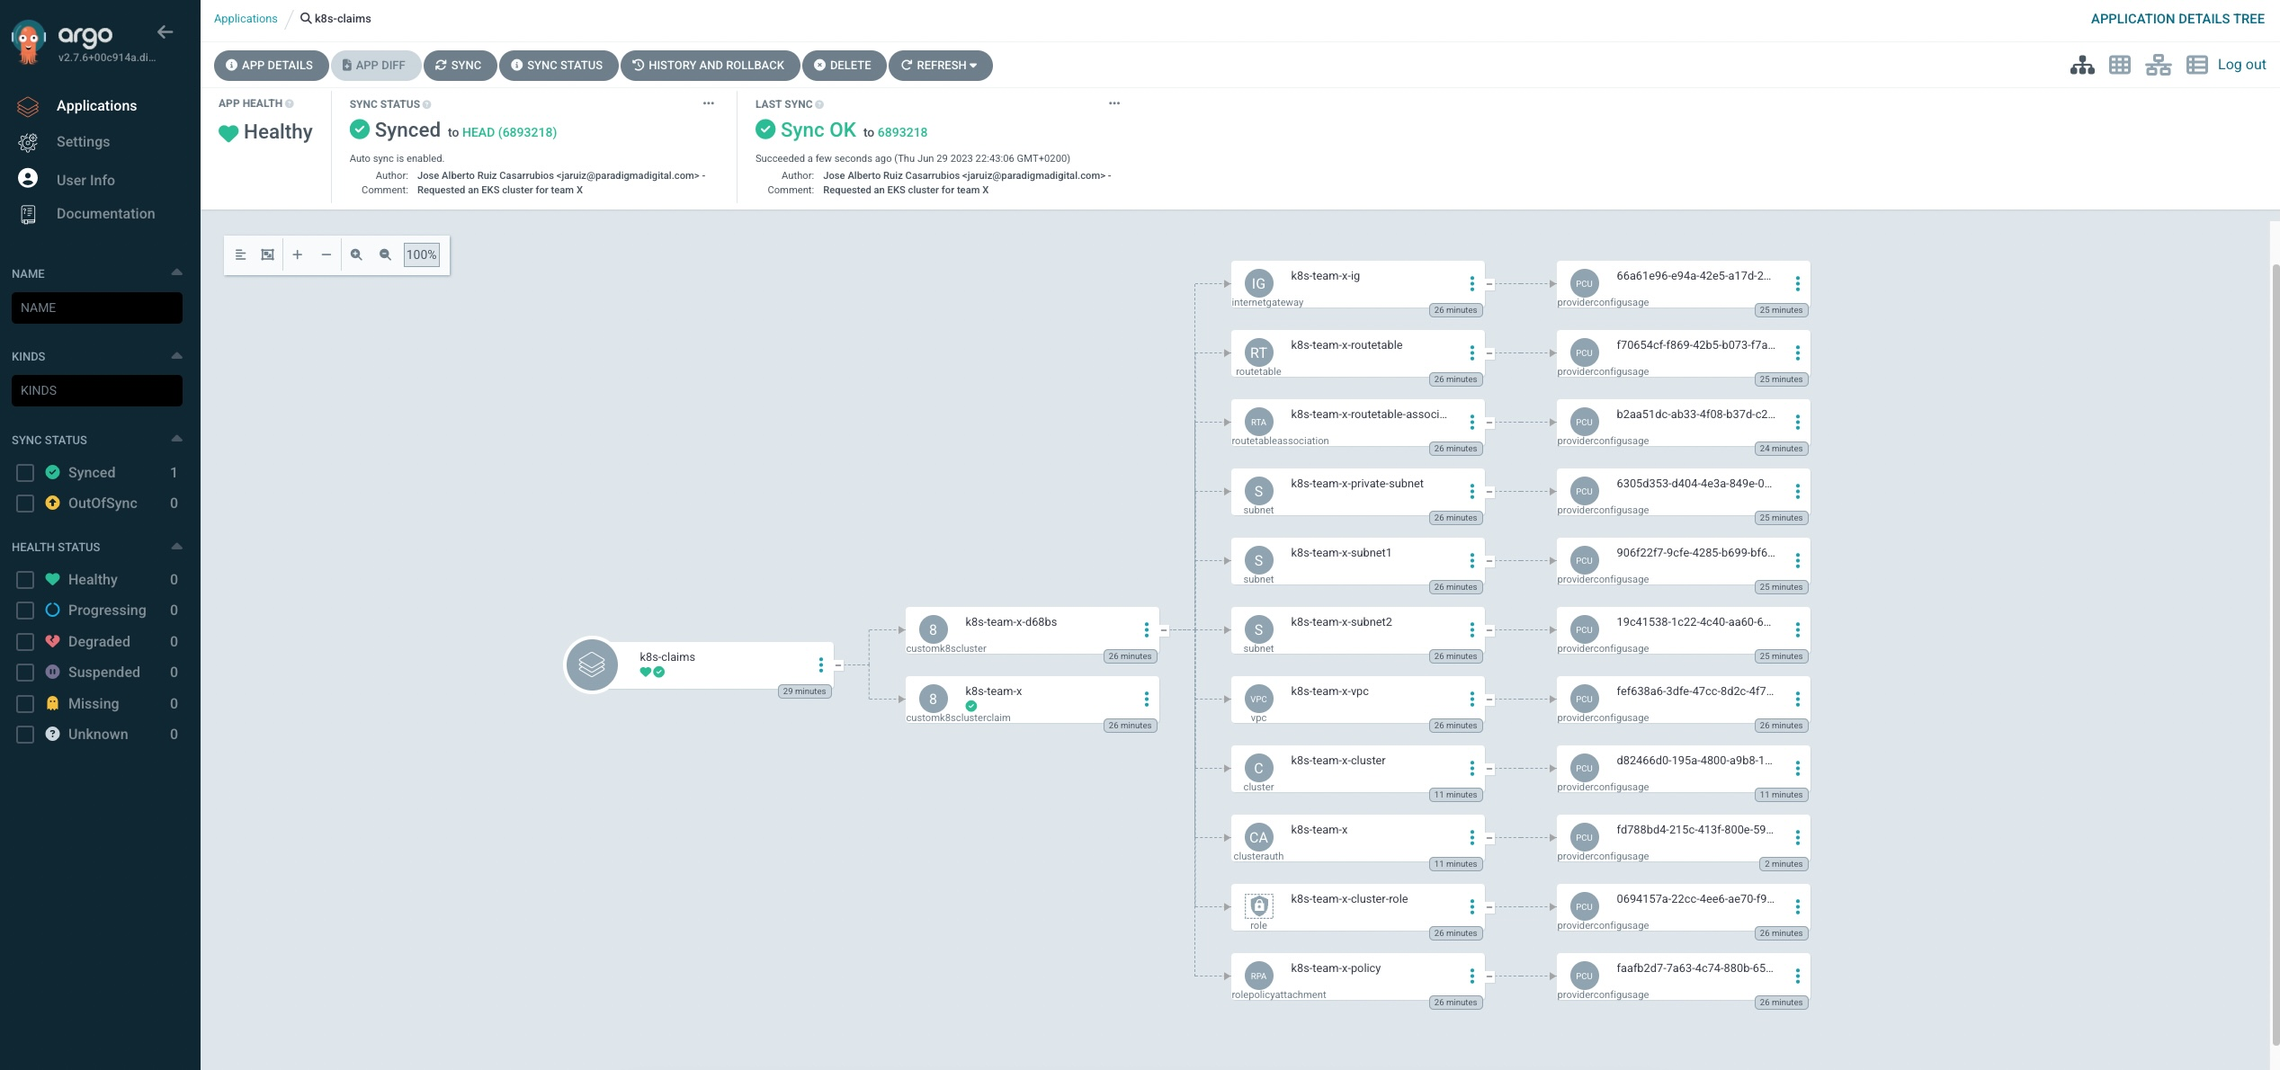
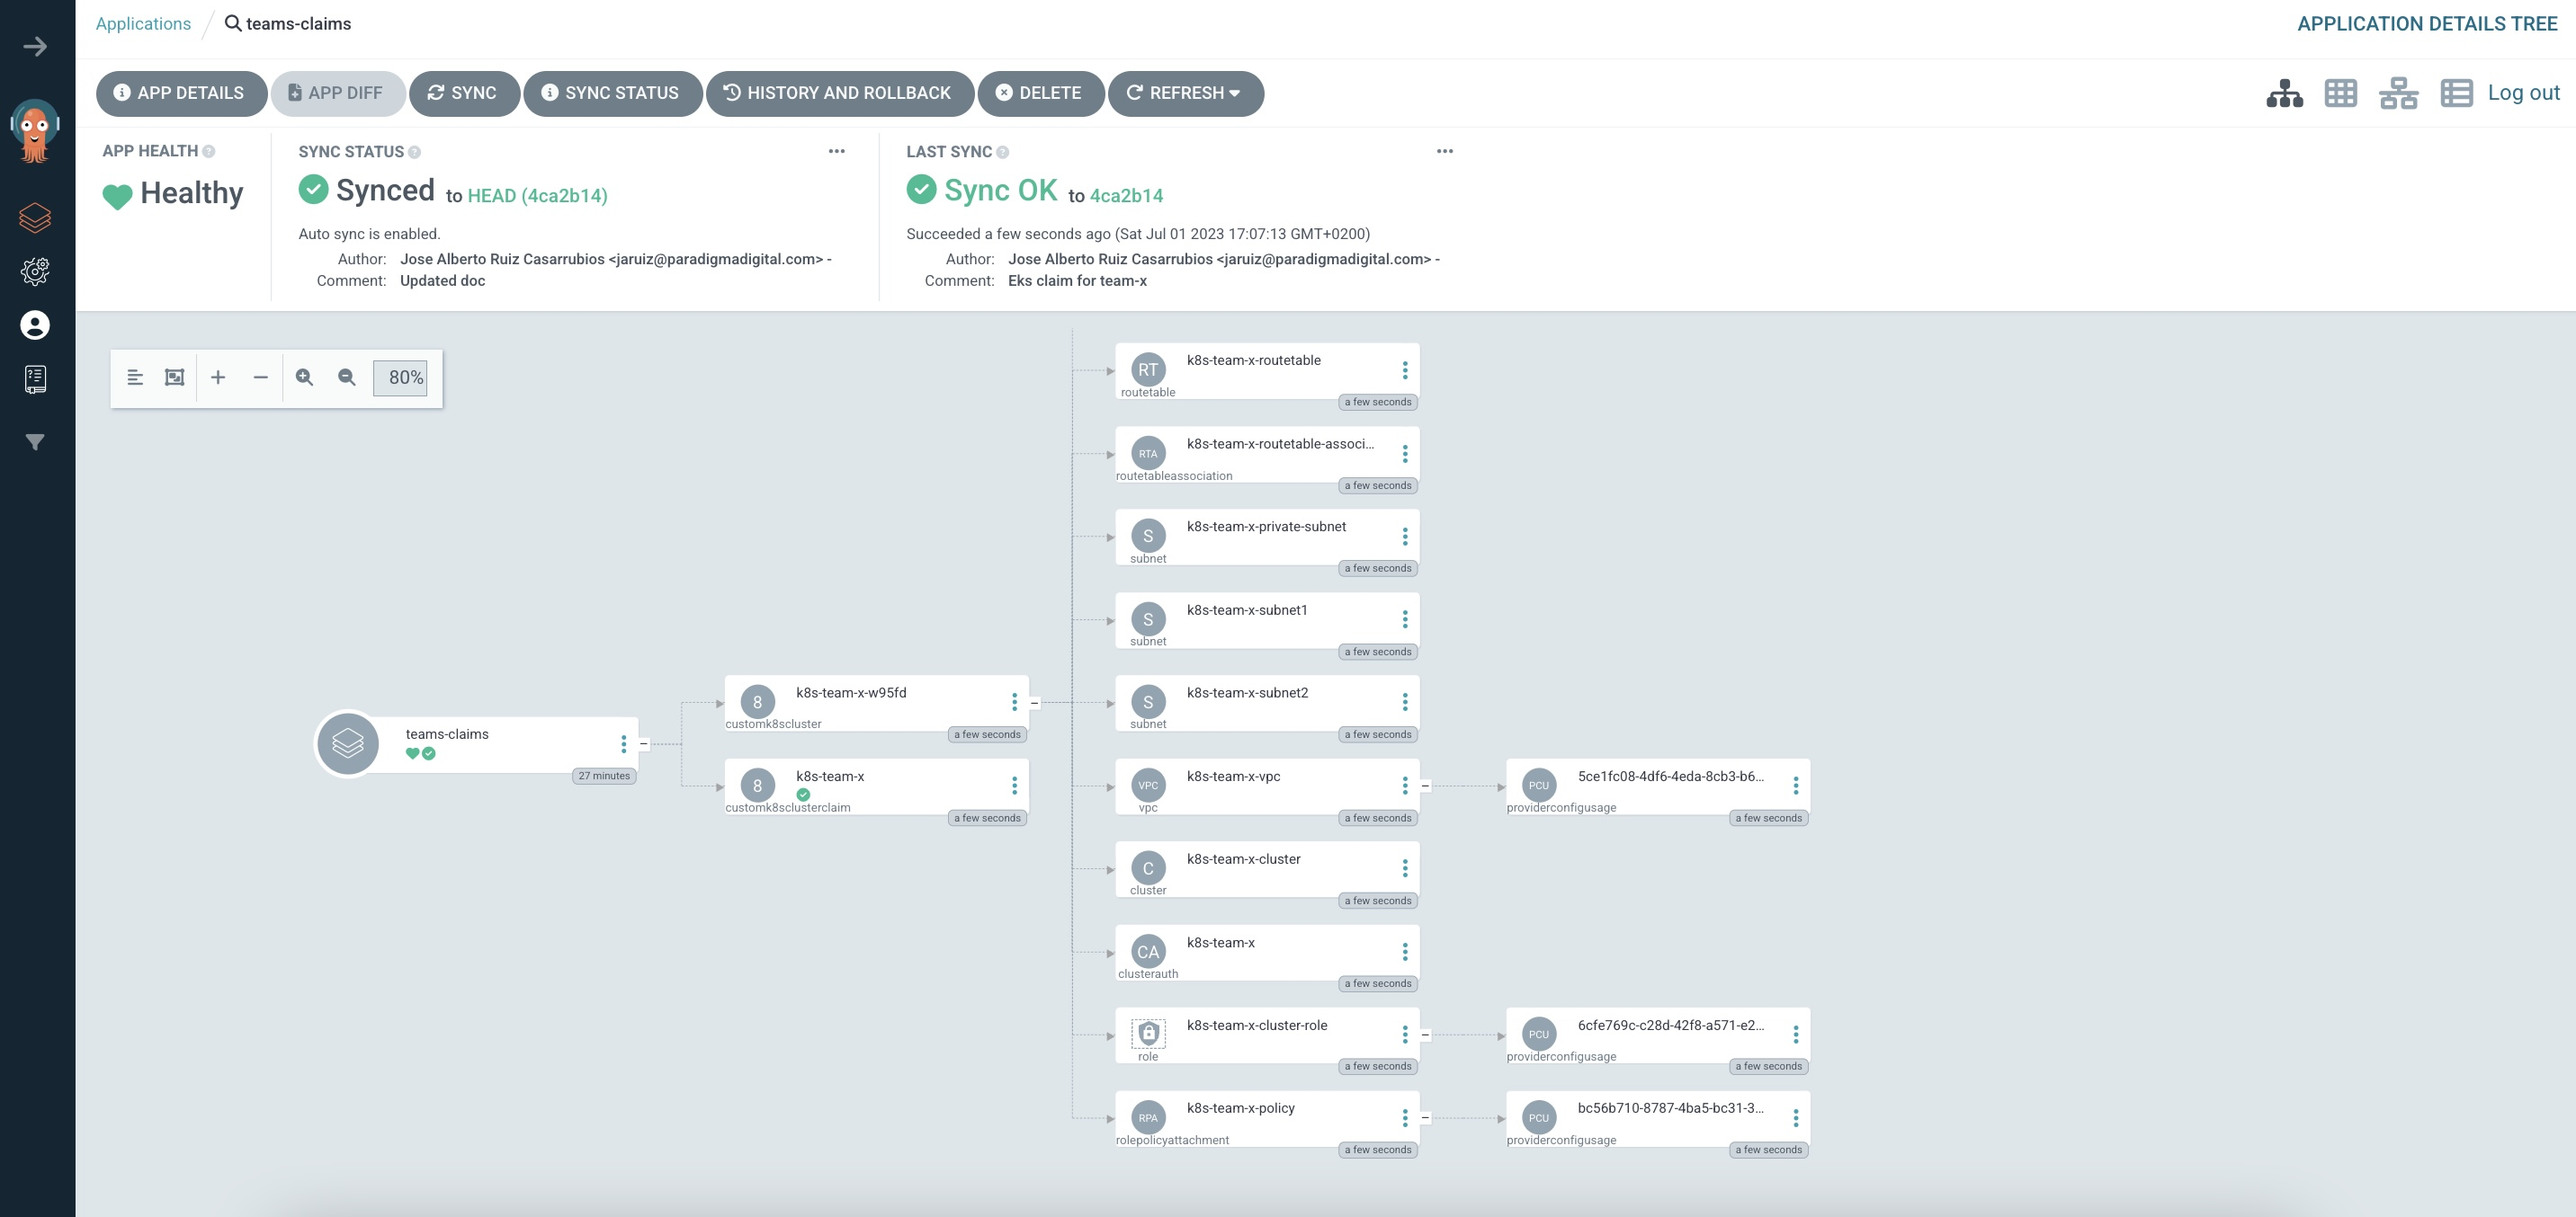
Updated doc

diff --git a/README.md b/README.md
@@ -14,9 +14,6 @@ In this PoC you will learn how to manage cloud infrastructure by using Kubernete
 - [Eksctl](https://eksctl.io/)
 - Kubectl
 - Helm
-- A Github token to access to claims repository
-
-(*) If you don't have a Kubernetes instance, you can trry [K3d](https://k3d.io/v5.5.1/#quick-start) or execute the script "create-cluster.sh" to create a cluster in AWS (there is another script "delete-cluster.sh" to delete it.)
 
 
 
@@ -59,7 +56,7 @@ sh create-cluster.sh
 Once the main cluster is up and running, we have to install and configure [ArgoCD](https://argo-cd.readthedocs.io/en/stable/) and [Crossplane](https://www.crossplane.io/). To do this, just execute the following script:
 
 ```bash
-sh setup.sh <AWS_ACCESS_KEY_ID> <AWS_SECRET_ACCESS_KEY> <GITHUB_TOKEN>
+sh setup.sh <AWS_ACCESS_KEY_ID> <AWS_SECRET_ACCESS_KEY>
 ```
 
 
@@ -73,30 +70,28 @@ ARGOCD Credentials: admin/FkmHYXTwAWT33eFZ
 
 
 
-If we go to this URL we'll enter to ArgoCD and we have to check that two applications are created:
+If we go to this URL we'll enter to ArgoCD and we'll see that there are two applications created:
 
-![argocd_init_screen](pictures/argocd_init_screen.jpg)
+![argocd_init_screen](doc/pictures/argocd_apps.jpg)
 
+Why those two applications?
 
+#### ArgoCD App: crossplane-resources
 
-### Deploying composite objects
+This app is listening for changes in "https://github.com/jaruizes/platform-argo-crossplane/crossplane/resources" . So, if we add more crossplane composites or update what exists, ArgoCD applies those changes to the main kubernetes cluster. 
 
-Now, it's time to define how a k8s cluster is going to be created. We need to do these tasks:
+If you click in this app, you can see that two objects are managed by ArgoCD:
 
-- Defining a composition object for an EKS cluster (*crossplane/composite/eks-composition.yaml*)
-- Creating a definition object and claim to request an EKS cluster  (*crossplane/composite/eks-definition.yaml*)
+![crossplane_initial_composite](doc/pictures/crossplane_initial_composite.jpg)
 
+Those objects are:
 
-
-To install these objects, execute this command:
-
-```shell
-sh deploy-composite.sh
-```
+- EKS Composition, defined in "*crossplane/resources/aws/composite/eks/eks-composition.yaml*"
+- EKS Composite Resource Definition, defined in "*crossplane/resources/aws/composite/eks/eks-definition.yaml*"
 
 
 
-If we execute this command:
+So, ArgoCD has installed those objects in the cluster and keeps them synchronized with the repository. We can check it executing this command:
 
 ```bash
 kubectl get Composition -n crossplane-system
@@ -104,7 +99,7 @@ kubectl get Composition -n crossplane-system
 
 
 
-we'll see our composition installed:
+We'll see the composition installed:
 
 ```bash
 NAME               XR-KIND            XR-APIVERSION             AGE
@@ -121,7 +116,7 @@ kubectl get CompositeResourceDefinition
 
 
 
-we'll see our composite definition installed:
+we'll see the composite definition installed:
 
 ```bash
 NAME                                     ESTABLISHED   OFFERED   AGE
@@ -130,30 +125,44 @@ customk8sclusters.jaruiz.crossplane.io   True          True      9m3s
 
 
 
-### Claim an EKS
 
-Finally, we are going to request to create a new EKS cluster called "k8s-team-x". We have to push a new file to the [claims repository](https://github.com/jaruizes/platform-argo-crossplane-claims) , in the folder "claims/", in order to ArgoCD gets the change and applies for the cluster object to Crossplane. The claim file has the following structure:
+
+#### ArgoCD App: **teams-claims**
+
+This application is listening for changes in "https://github.com/jaruizes/platform-argo-crossplane/teams" . So, a team wants to get a K8s cluster, the team will push a file containing the K8s claim in that path, ArgoCD will apply that change to the main kubernetes cluster and Crossplain will create the new cluster
+
+If we click to see the details of the app, we'll see that there is no objects there. That is because we haven't requested any claim (that means that we haven't performed any push to "https://github.com/jaruizes/platform-argo-crossplane/teams")
+
+![argocd_inital_teams_claims](doc/pictures/argocd_inital_teams_claims.jpg)
+
+
+
+### Claiming an EKS
+
+Now it's the moment to create a claim. We are going to request to create a new EKS cluster called "k8s-team-x". We have to push a new file to "https://github.com/jaruizes/platform-argo-crossplane/teams".
+
+The claim file has the following structure (there is an example in "*crossplane/claim-example/k8s-claim.yaml*":
 
 ```yaml
 apiVersion: jaruiz.crossplane.io/v1
 kind: customk8sclusterclaim
 metadata:
-  name: k8s-team-a
+  name: k8s-team-x
   labels:
-    cluster-owner: team-a
+    cluster-owner: team-x
 spec:
-  name: k8s-team-a
+  name: k8s-team-x
 ```
 
-There is an example file in "claims-example/k8s-claim.yaml". The following picture shows how to do it:
 
 
+So, we create a new file called, for instance, "team-x-eks-claim.yaml", with that content, and push it to the repository:
 
-![push-claim](pictures/push-claim.jpg)
+![eks-claim-team-x](doc/pictures/eks-claim-team-x.jpg)
 
-Now, if we go to ArgoCD and we open the application we created before, we'll see how all the components associated to the composition are being created:
+Now, if we go to ArgoCD and we open the application "**teams-claims**", we'll see how all the components associated to the composition are being created:
 
-![argocd_cluster_created](pictures/argocd_cluster_created.jpg)
+![argocd_cluster_created](doc/pictures/argocd_cluster_created.jpg)
 
 
 
@@ -174,7 +183,7 @@ k8s-team-x-cluster   True    True     k8s-team-x-cluster   9m59s
 
 
 
-And, if can check the secret containing the connection details:
+And, once the cluster is created, we can check the secret containing the connection details:
 
 ```bash
 kubectl describe secret k8s-team-x-conn  -n crossplane-system
@@ -213,9 +222,13 @@ We have to perform two tasks:
 
 ### Removing the claim
 
-If we delete the file from the repository, the environment will be deleted by ArgoCD:
+If we delete the file from the repository and we push the change:
 
-![argocd_delete_claim](pictures/argocd_delete_claim.jpg)
+![deleted_claim_team-x](doc/pictures/deleted_claim_team-x.jpg)
+
+the cluster for the team X will be deleted by ArgoCD:
+
+![argocd_delete_claim](doc/pictures/argocd_delete_claim.jpg)
 
 We can also check it using kubectl:
 
@@ -236,7 +249,7 @@ And, if we execute the command some minutes later, we'll see that the resource i
 
 We also can check AWS Console:
 
-![cluster_deleting_aws](pictures/cluster_deleting_aws.jpg)
+![cluster_deleting_aws](doc/pictures/cluster_deleting_aws.jpg)
 
 
 
